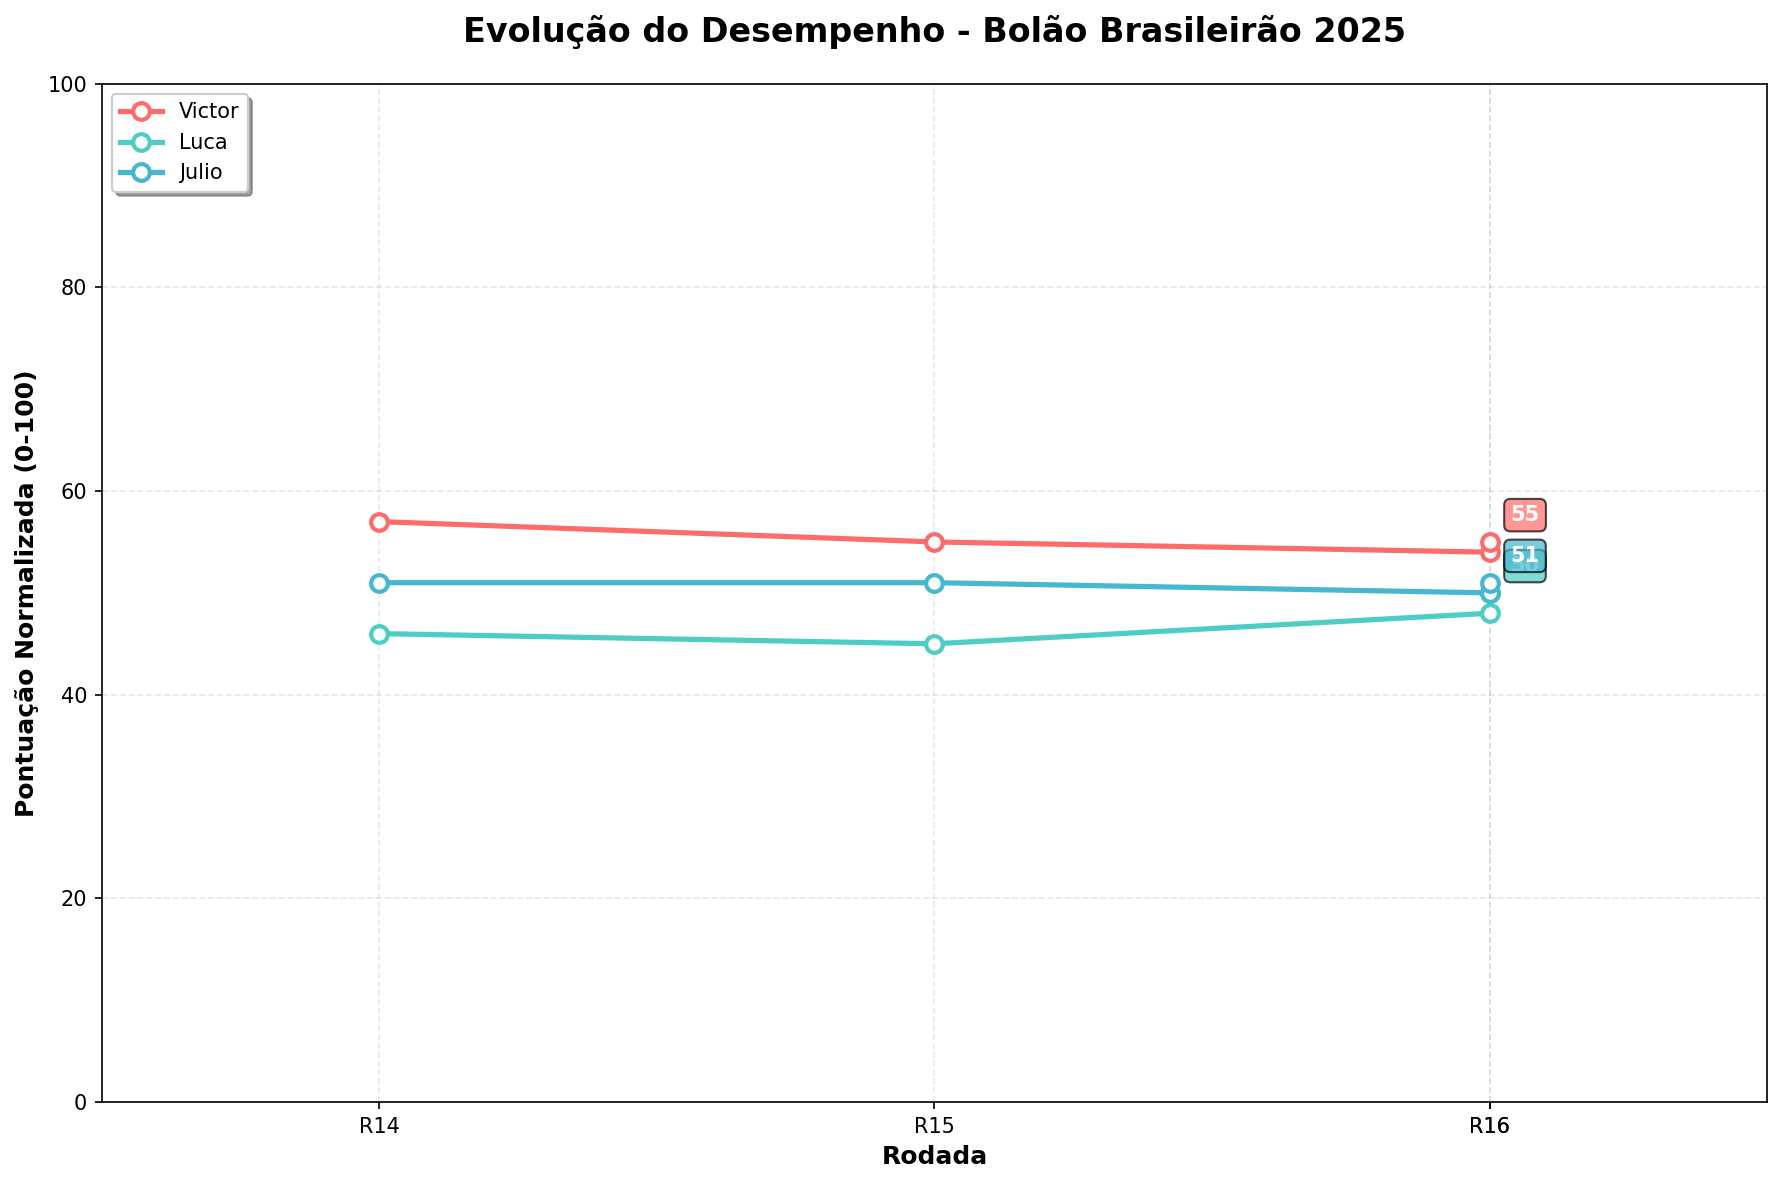
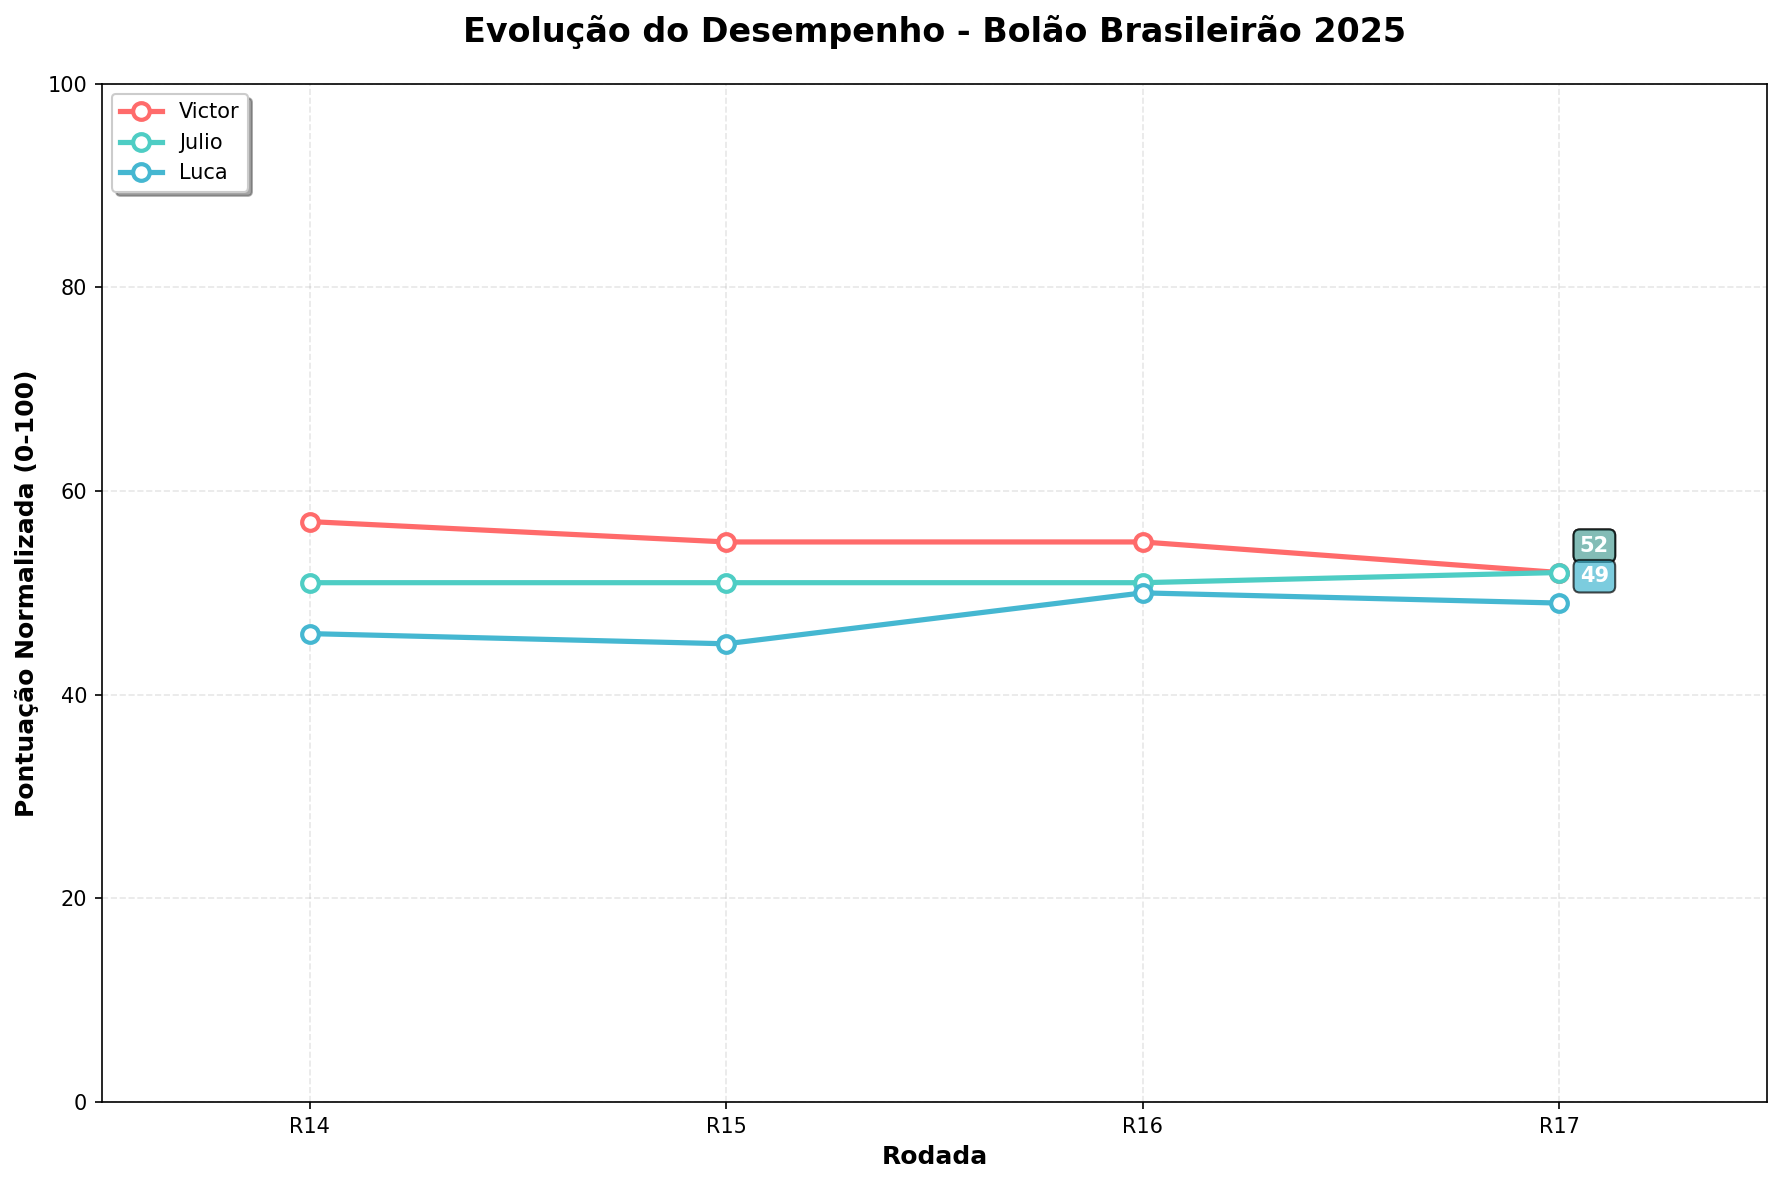
Atualizacao automatica - 29/07/2025 11:17:46,39

diff --git a/scrape_brasileirao_simple.py b/scrape_brasileirao_simple.py
@@ -418,6 +418,28 @@ class BrasileiroScraper:
             print(f"❌ Error saving score history: {e}")
             return False
 
+    def filter_unique_rounds(self, history):
+        """Filter history to keep only the latest entry for each round"""
+        if not history:
+            return []
+        
+        # Create a dictionary to store the latest entry for each round
+        unique_rounds = {}
+        
+        for entry in history:
+            round_num = entry.get('round', 0)
+            timestamp = entry.get('timestamp', '')
+            
+            # Keep the entry with the latest timestamp for each round
+            if round_num not in unique_rounds or timestamp > unique_rounds[round_num]['timestamp']:
+                unique_rounds[round_num] = entry
+        
+        # Convert back to list and sort by round number
+        filtered_history = list(unique_rounds.values())
+        filtered_history.sort(key=lambda x: x.get('round', 0))
+        
+        return filtered_history
+
     def generate_score_graph(self):
         """Generate visual score graph for README"""
         history_file = "score_history.json"
@@ -427,14 +449,19 @@ class BrasileiroScraper:
         
         try:
             with open(history_file, 'r', encoding='utf-8') as f:
-                history = json.load(f)
+                full_history = json.load(f)
             
-            if not history:
+            if not full_history:
                 return ["", "### 📈 Histórico de Desempenho", "", "*Nenhum histórico disponível ainda.*", ""]
             
-            # Get player names from latest entry
+            # Filter to get only the latest entry for each round
+            history = self.filter_unique_rounds(full_history)
+            
+            # Get player names from latest entry and sort by current score (descending)
             latest_entry = history[-1]
-            players = list(latest_entry['normalized_scores'].keys())
+            players_scores = [(player, score) for player, score in latest_entry['normalized_scores'].items()]
+            players_scores.sort(key=lambda x: x[1], reverse=True)  # Sort by score descending
+            players = [player for player, score in players_scores]
             
             graph_lines = []
             graph_lines.append("")
@@ -452,21 +479,21 @@ class BrasileiroScraper:
             
             # Create a simple ASCII table showing score progression
             if len(history) >= 1:
-                # Table header
+                # Table header with players ordered by current score
                 header = "| Rodada | " + " | ".join([f"{player}" for player in players]) + " |"
                 separator = "|" + "|".join(["-------"] * (len(players) + 1)) + "|"
                 
                 graph_lines.append(header)
                 graph_lines.append(separator)
                 
-                # Show last 10 entries to keep table manageable
+                # Show last 10 unique rounds to keep table manageable
                 recent_history = history[-10:]
                 
                 for entry in recent_history:
                     round_num = entry.get('round', 'N/A')
                     
                     row = f"| R{round_num} |"
-                    for player in players:
+                    for player in players:  # Use ordered players
                         score = entry['normalized_scores'].get(player, 0)
                         row += f" {score} |"
                     
@@ -481,7 +508,7 @@ class BrasileiroScraper:
                     previous = history[-2]['normalized_scores']
                     
                     trends = []
-                    for player in players:
+                    for player in players:  # Use ordered players
                         current_score = current.get(player, 0)
                         previous_score = previous.get(player, 0)
                         diff = current_score - previous_score

diff --git a/README.md b/README.md
@@ -2,53 +2,53 @@
 
 ## 🏆 Resultados Atuais
 
-**Última Atualização:** 2025-07-25 00:12:59
+**Última Atualização:** 2025-07-29 11:17:45
 
 | Time | Real | Victor | Julio | Luca |
 |------|------|------|------|------|
-| Cruzeiro | 1 | 14°(7p) | 17°(4p) | 11°(10p) |
-| Flamengo | 2 | 2°(20p) | 1°(19p) | 1°(19p) |
+| Flamengo | 1 | 2°(19p) | 1°(20p) | 1°(20p) |
+| Cruzeiro | 2 | 14°(8p) | 17°(5p) | 11°(11p) |
 | Palmeiras | 3 | 5°(18p) | 4°(19p) | 2°(19p) |
-| Red Bull Bragantino | 4 | 17°(7p) | 16°(8p) | 15°(9p) |
-| Botafogo | 5 | 3°(18p) | 7°(18p) | 5°(20p) |
-| Bahia | 6 | 4°(18p) | 6°(20p) | 7°(19p) |
+| Bahia | 4 | 4°(20p) | 6°(18p) | 7°(17p) |
+| Red Bull Bragantino | 5 | 17°(8p) | 16°(9p) | 15°(10p) |
+| Botafogo | 6 | 3°(17p) | 7°(19p) | 5°(19p) |
 | Mirassol | 7 | 20°(7p) | 18°(9p) | 19°(8p) |
-| Fluminense | 8 | 6°(18p) | 10°(18p) | 13°(15p) |
-| Atlético-MG | 9 | 10°(19p) | 9°(20p) | 8°(19p) |
+| São Paulo | 8 | 9°(19p) | 8°(20p) | 9°(19p) |
+| Ceará | 9 | 13°(16p) | 11°(18p) | 18°(11p) |
 | Internacional | 10 | 1°(11p) | 2°(12p) | 3°(13p) |
 | Corinthians | 11 | 7°(16p) | 3°(12p) | 6°(15p) |
-| São Paulo | 12 | 9°(17p) | 8°(16p) | 9°(17p) |
-| Ceará | 13 | 13°(20p) | 11°(18p) | 18°(15p) |
+| Fluminense | 12 | 6°(14p) | 10°(18p) | 13°(19p) |
+| Atlético-MG | 13 | 10°(17p) | 9°(16p) | 8°(15p) |
 | Grêmio | 14 | 11°(17p) | 15°(19p) | 14°(20p) |
 | Vitória | 15 | 18°(17p) | 19°(16p) | 20°(15p) |
 | Vasco da Gama | 16 | 16°(20p) | 14°(18p) | 17°(19p) |
 | Santos | 17 | 12°(15p) | 13°(16p) | 4°(7p) |
-| Juventude | 18 | 15°(17p) | 12°(14p) | 12°(14p) |
-| Fortaleza | 19 | 8°(9p) | 5°(6p) | 10°(11p) |
+| Fortaleza | 18 | 8°(10p) | 5°(7p) | 10°(12p) |
+| Juventude | 19 | 15°(16p) | 12°(13p) | 12°(13p) |
 | Sport | 20 | 19°(19p) | 20°(20p) | 16°(16p) |
-| **TOTAL** | | **310** | **302** | **300** |
+| **TOTAL** | | **304** | **304** | **298** |
 
 ### 🏅 Classificação Final (pontuação normalizada 0-100)
 
-🥇 **Victor**: 55 pontos
-🥈 **Julio**: 51 pontos
-🥉 **Luca**: 50 pontos
+🥇 **Victor**: 52 pontos
+🥈 **Julio**: 52 pontos
+🥉 **Luca**: 49 pontos
 
 ### 📈 Histórico de Desempenho
 
 ![Gráfico de Performance](performance_chart.png)
 
-| Rodada | Victor | Luca | Julio |
+| Rodada | Victor | Julio | Luca |
 |-------|-------|-------|-------|
-| R14 | 57 | 46 | 51 |
-| R15 | 55 | 45 | 51 |
-| R16 | 54 | 48 | 50 |
-| R16 | 55 | 50 | 51 |
+| R14 | 57 | 51 | 46 |
+| R15 | 55 | 51 | 45 |
+| R16 | 55 | 51 | 50 |
+| R17 | 52 | 52 | 49 |
 
 **Tendência (últimas 2 medições):**
-- **Victor**: 📈 +1
-- **Luca**: 📈 +2
+- **Victor**: 📉 -3
 - **Julio**: 📈 +1
+- **Luca**: 📉 -1
 
 ## 📖 Sobre o Projeto
 
